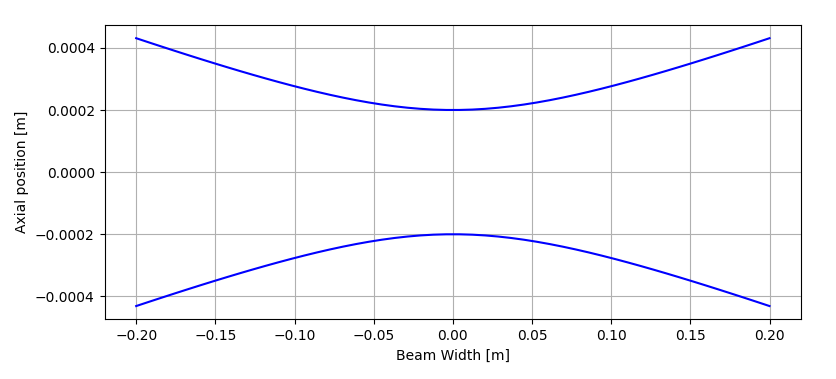
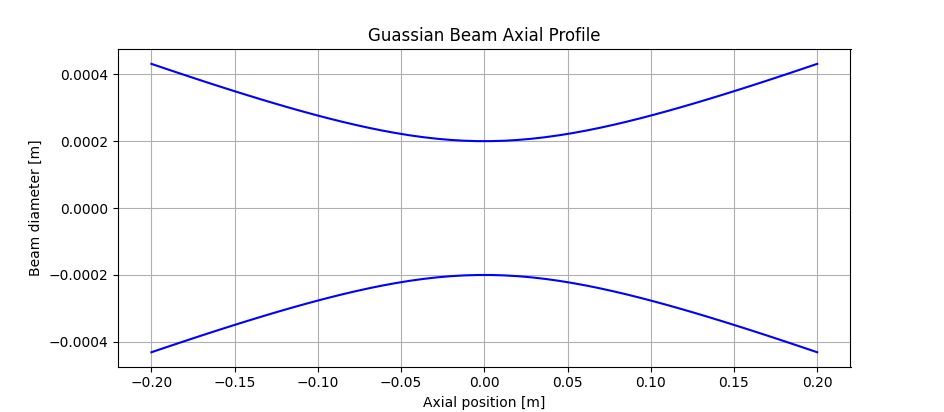
Reversed label positions

diff --git a/dists/GaussBeam.py b/dists/GaussBeam.py
@@ -19,9 +19,9 @@ plot.plot(x,-y, color="blue")
 plot.grid()
 
 
-
-plot.xlabel("Beam Width [m]")
-plot.ylabel("Axial position [m]")
+plot.title("Guassian Beam Axial Profile")
+plot.ylabel("Beam diameter [m]")
+plot.xlabel("Axial position [m]")
 
 plot.show()
 
